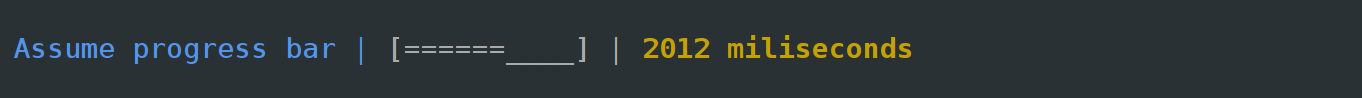
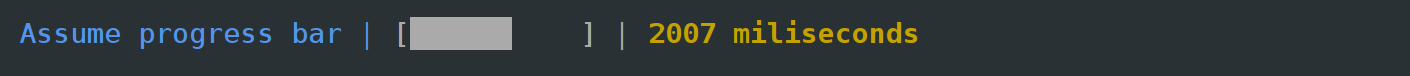
example fix

Changed region(s): [[0.0, 0.2105, 0.6784, 0.6842]]

diff --git a/test/index.js b/test/index.js
@@ -22,7 +22,6 @@ lab.experiment('bar', ()=>{
         let options = {
             label: 'Progress bar',
             total: 30,
-            time: true,
         };
 
         let bar = Bar(options);
@@ -43,7 +42,7 @@ lab.experiment('bar', ()=>{
 
         let options = {
             label: 'Progress bar',
-            total: 5
+            total: 5,
         };
 
         let bar = Bar(options);
@@ -110,7 +109,13 @@ lab.experiment('bar', ()=>{
         let util=require('util');
         let options = {
             label: 'Assume progress bar',
-            total: 33
+            total: 33,
+            show: {
+                bar: {
+                    completed: '\x1b[47m \x1b[0;37m',
+                    incompleted: ' ',
+                }
+            }
         };
 
         let draw=(bar)=>{

diff --git a/index.js b/index.js
@@ -212,6 +212,7 @@ Bar.prototype.defaultFormats = function(type){
     }else if(type=='tick'){
         str+=this.show.tick.color + this.text+'\x1b[0;37m'; // end with white
     }else if(type=='bar' && this.show.overwrite){
+
         let n_dots= Math.round(this.show.bar.length *(this.counter / this.total));
 
         let completed='';
@@ -259,7 +260,7 @@ Bar.prototype._draw=function(){
     if (this.show.overwrite) {
 
         info=util.format('%s%s',
-                    this.defaultFormats(this.show.active.bar ? 'single_row_bar' : ''),
+                    this.defaultFormats(this.show.active.bar ? 'bar' : ''),
                     info);
 
         let progress=util.format(

diff --git a/README.md b/README.md
@@ -199,3 +199,4 @@ Add unit tests for any new or changed functionality. Lint and test your code.
 * 1.1.0 Added custom draw function, tick_per_progress to `option.show.bar` for bar without overwrite and deafaultFormat function
 * 1.1.1 Changed package.json
 * 1.1.2 travis + coveralls
+* 1.1.3 Example fix
